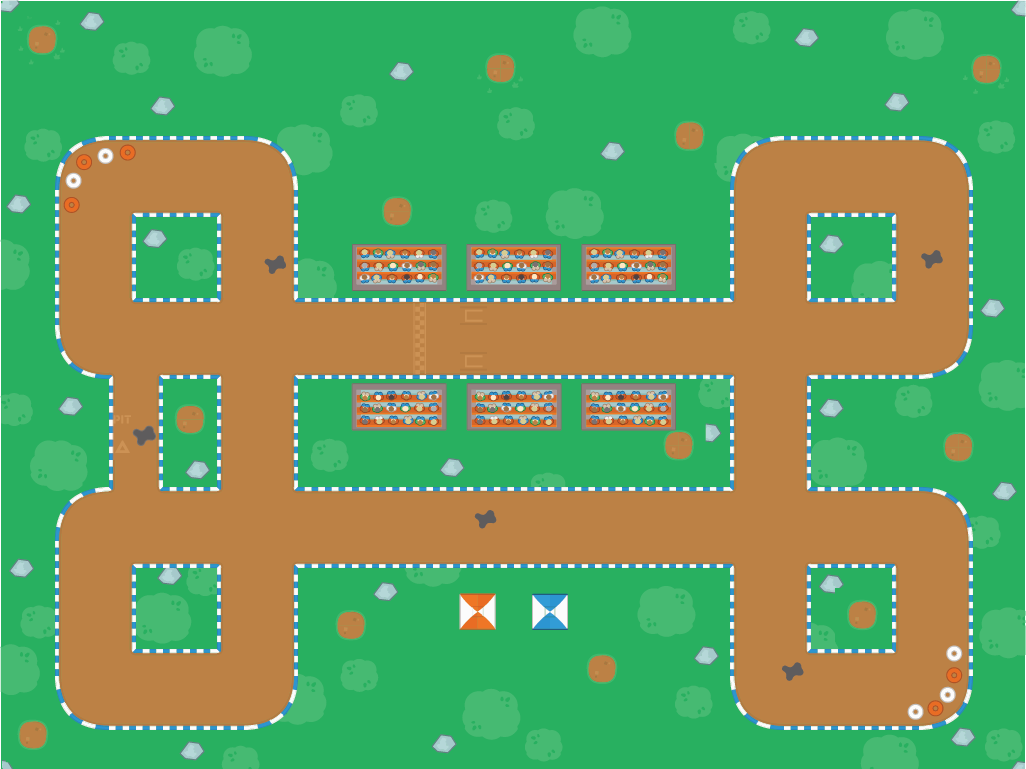
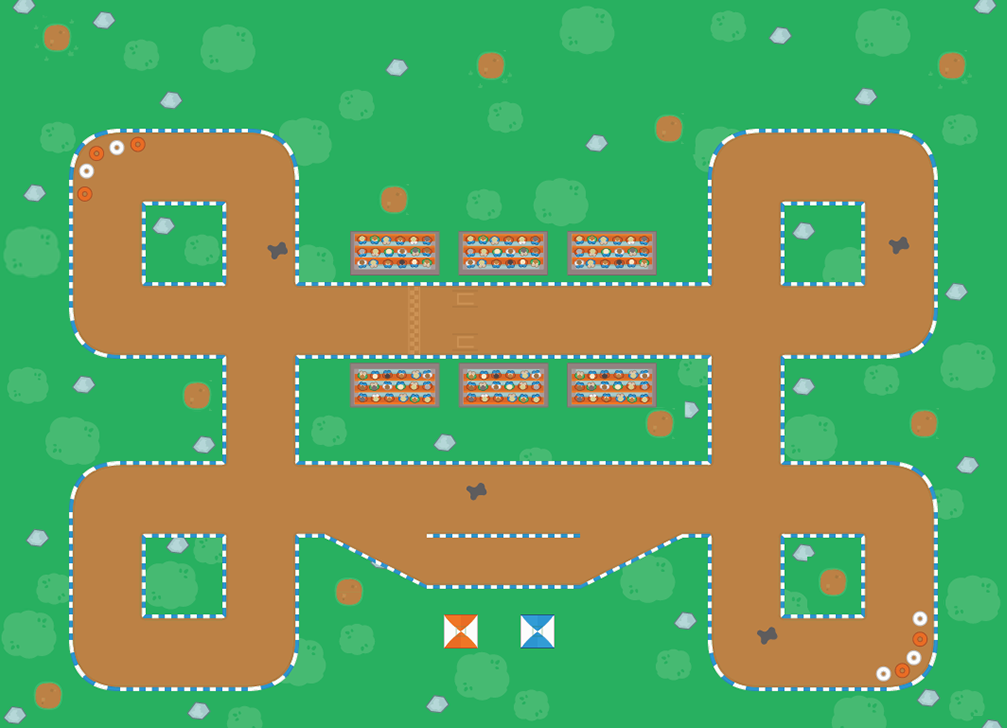
new map file, working respawn with 4 sec timer

diff --git a/RaceGame2/Lib/Car.cs b/RaceGame2/Lib/Car.cs
@@ -23,7 +23,7 @@ namespace RaceGame2.Lib
         public int turningSpeed;
         private bool isAccelerating;
         public Point position;
-        private float positionX, positionY;
+        public float positionX, positionY;
         private Point prevPosition;
         public float rotation;
         public static float rotationRate = (float) Math.PI / 50;
@@ -38,6 +38,8 @@ namespace RaceGame2.Lib
         public float handeling = 0.015f;
         private int counter;
         public float Force,ForceAngle,ForceX,ForceY;
+        public bool movable = true;
+        public int moveCountDown = 0;
 
 
         /// <summary>
@@ -47,9 +49,8 @@ namespace RaceGame2.Lib
         {
             this.fuel = 100;
             this.imageLocation = "default.png";
-            this.rotation = 3.143202f;
+            this.rotation = (float)Math.PI;
             this.speed = 0;
-            this.setPosistion(new Point(466,308));
             positionX = position.X;
             positionY = position.Y;
         }
@@ -69,6 +70,8 @@ namespace RaceGame2.Lib
         public void setPosistion(Point position)
         {
             this.position = position;
+            this.positionX = position.X;
+            this.positionY = position.Y;
         }
 
         public void SetImage(String carColour)
@@ -230,6 +233,15 @@ namespace RaceGame2.Lib
         /// </summary>
         public void calculateNewPosition()
         {
+            if (!this.movable)
+            {
+                if (moveCountDown == 0)
+                {
+                    movable = true;
+                }
+                this.moveCountDown--;
+                return;
+            }
             if (!Map.onTrack(position.X, position.Y))
             {
                 speed = speed * 0.95;

diff --git a/RaceGame2/RaceGame.cs b/RaceGame2/RaceGame.cs
@@ -79,6 +79,19 @@ namespace RaceGame2
             foreach (Car car in cars)
             {
                 car.calculateNewPosition();
+                if (!(car.fuel <= 0) || car.getSpeed() != 0)
+                {
+                    continue;
+                }
+                int middlePitStopX = (map.pitstop[0].X + map.pitstop[1].X) / 2;
+                int middlePitStopY = (map.pitstop[0].Y + map.pitstop[1].Y) / 2;
+                car.setPosistion(new Point(middlePitStopX,middlePitStopY));
+                car.positionX = middlePitStopX;
+                car.positionY = middlePitStopY;
+                car.rotation = 0.5f*(float)Math.PI;
+                car.fuel = car.maxFuel;
+                car.movable = false;
+                car.moveCountDown = 240;
             }
             map.checkpointChecker();
             Invalidate();

diff --git a/RaceGame2/Lib/Map.cs b/RaceGame2/Lib/Map.cs
@@ -33,7 +33,6 @@ namespace RaceGame2.Lib
             imageLocation = ("assets\\maps\\" + this.imageLocation);
             imageLocation = Path.Combine(System.Environment.CurrentDirectory, imageLocation);
             Image imageBitmap = new Bitmap(imageLocation);
-            imageBitmap.Save("blargh.png");
             Size imageSize = new Size(1024, 768);
             imageBitmap = new Bitmap(imageBitmap, imageSize);
             this.image = imageBitmap;
@@ -94,7 +93,7 @@ namespace RaceGame2.Lib
                         }
                     }
                 }
-                if (car.lapCounter == laps+1)
+                if (car.lapCounter == laps)
                 {
                     Application.Exit();
                 }

diff --git a/RaceGame2/Form1.cs b/RaceGame2/Form1.cs
@@ -75,6 +75,7 @@ namespace RaceGame2
             this.selectedMap = (Map)Activator.CreateInstance(test);
             this.selectedMap.laps = comboBox3.SelectedIndex + 1;
             this.selectedMap.cars = cars;
+            this.selectedMap.setCarsStartingPoints();
             raceForm = new RaceGame(cars,selectedMap);
             raceForm.FormClosing += new FormClosingEventHandler(RaceFormOnClosingEventhandler);
             raceForm.map = selectedMap;
